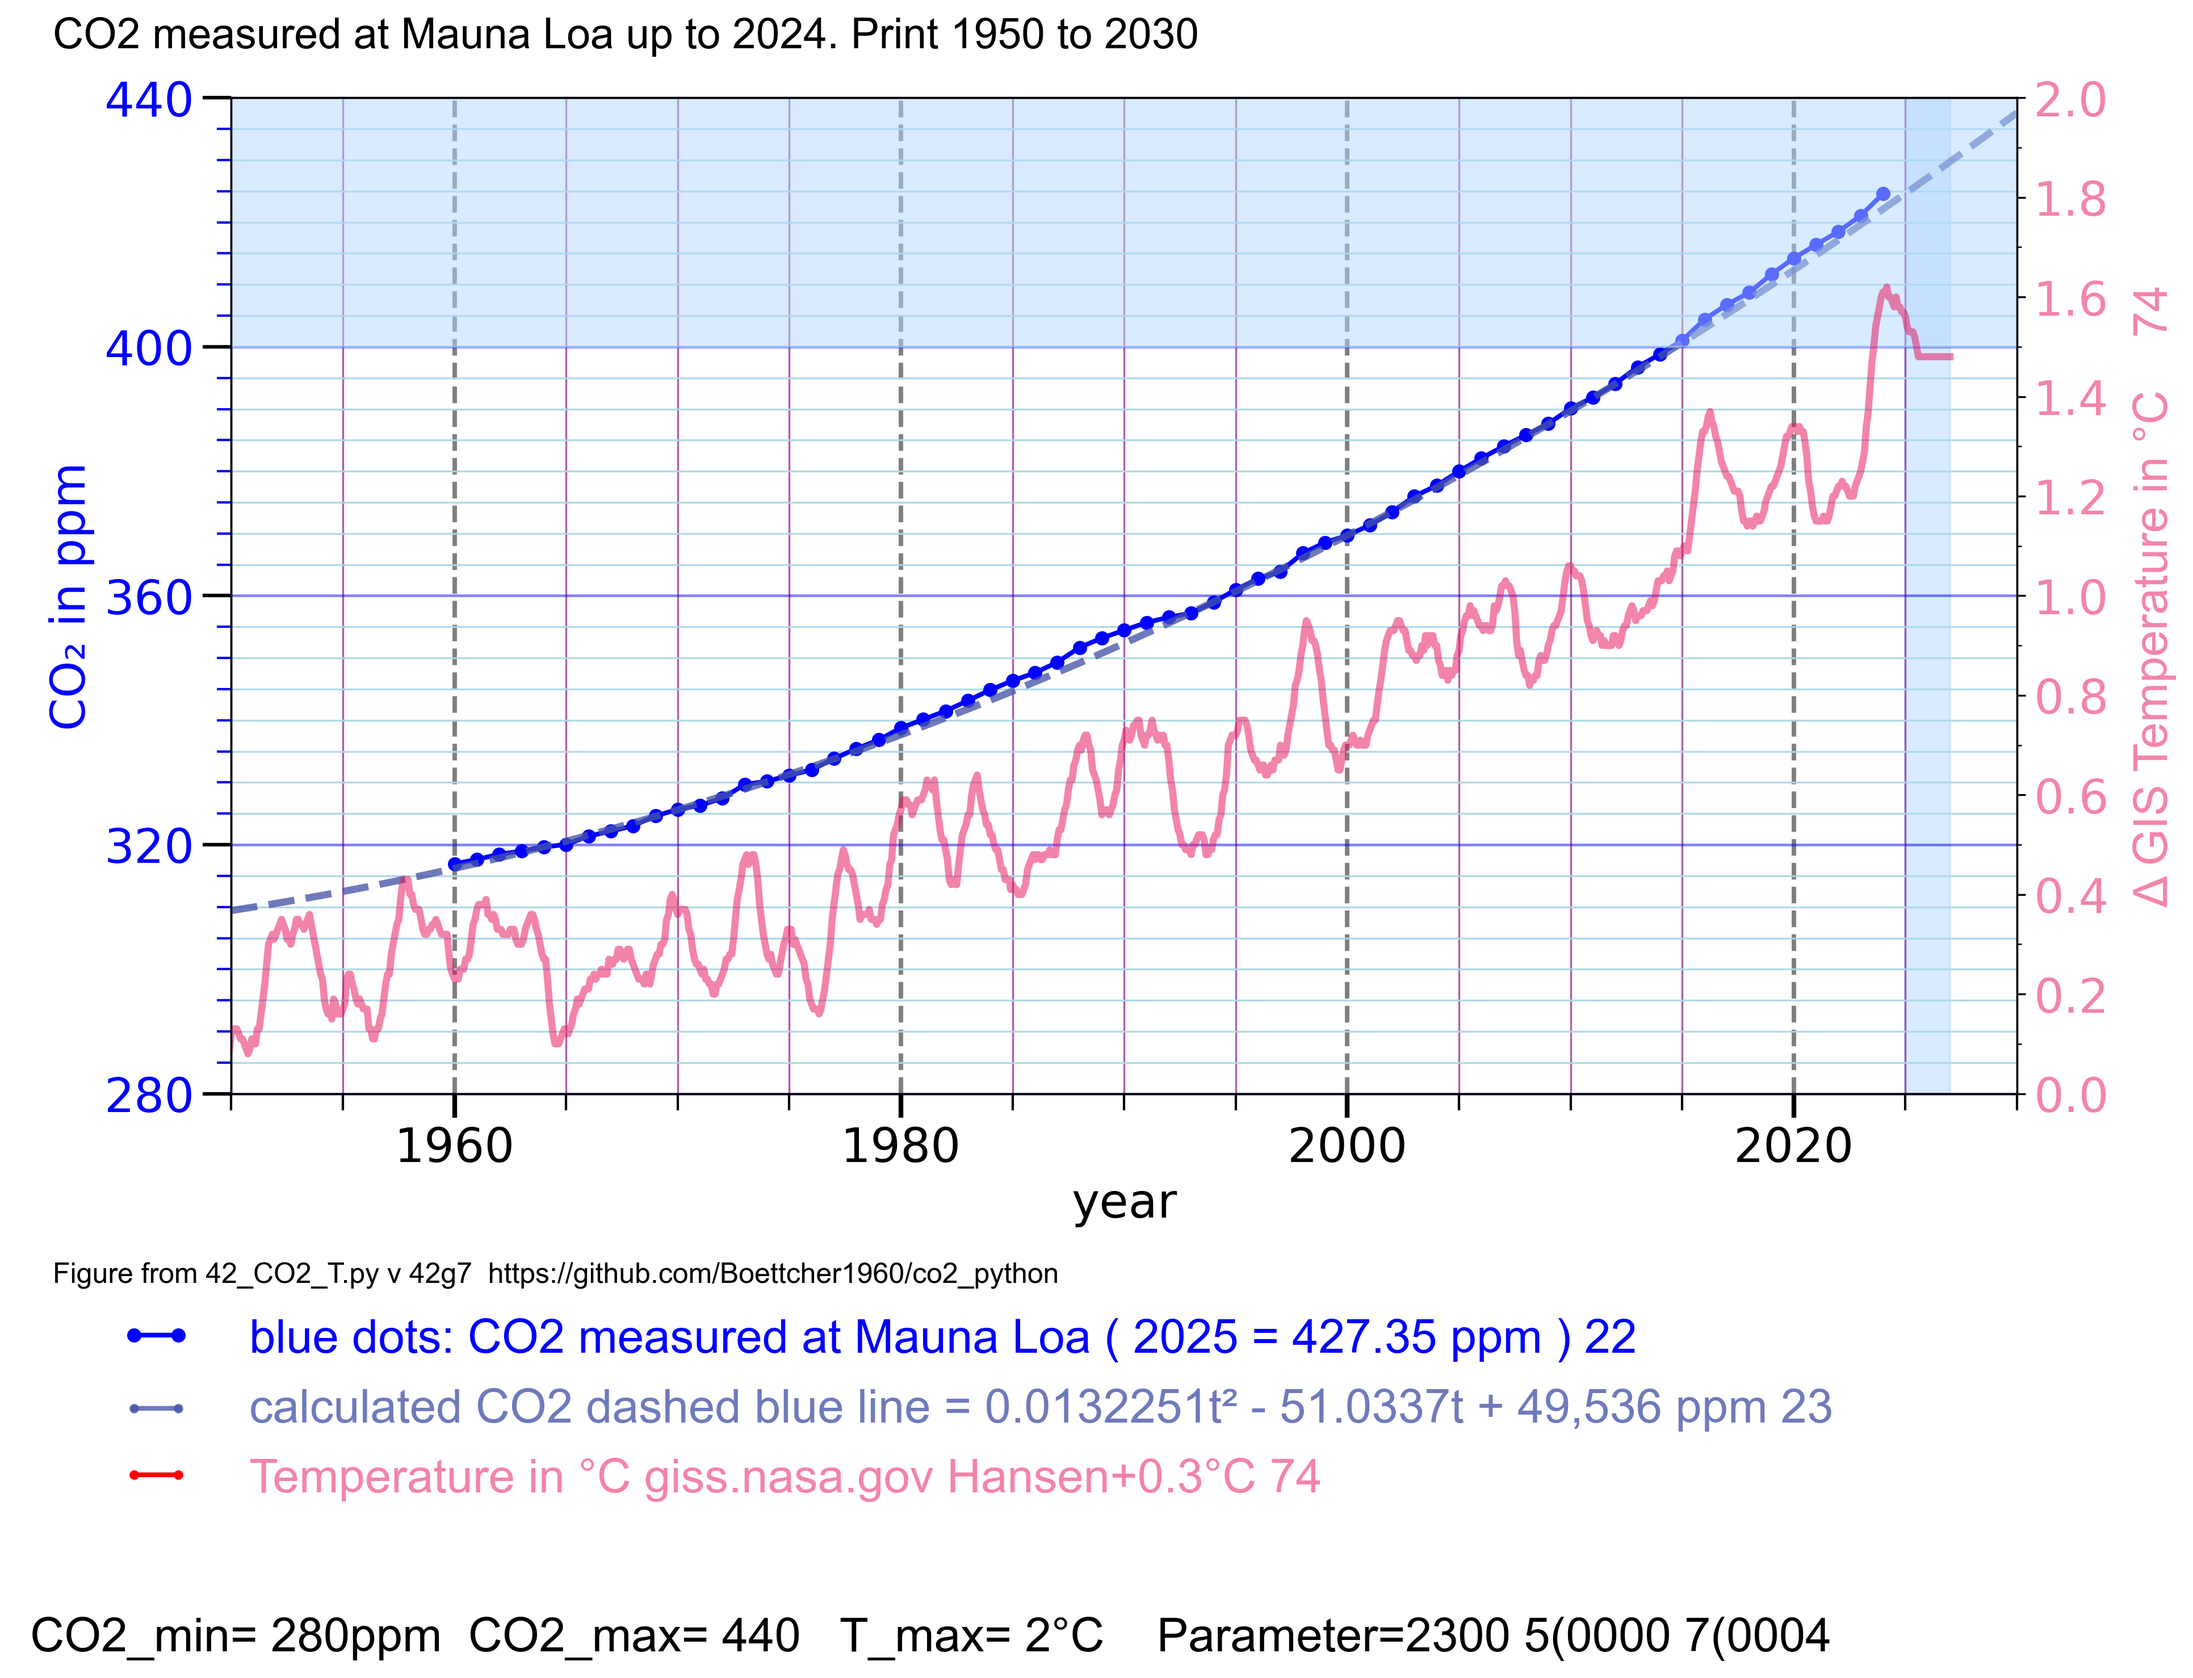
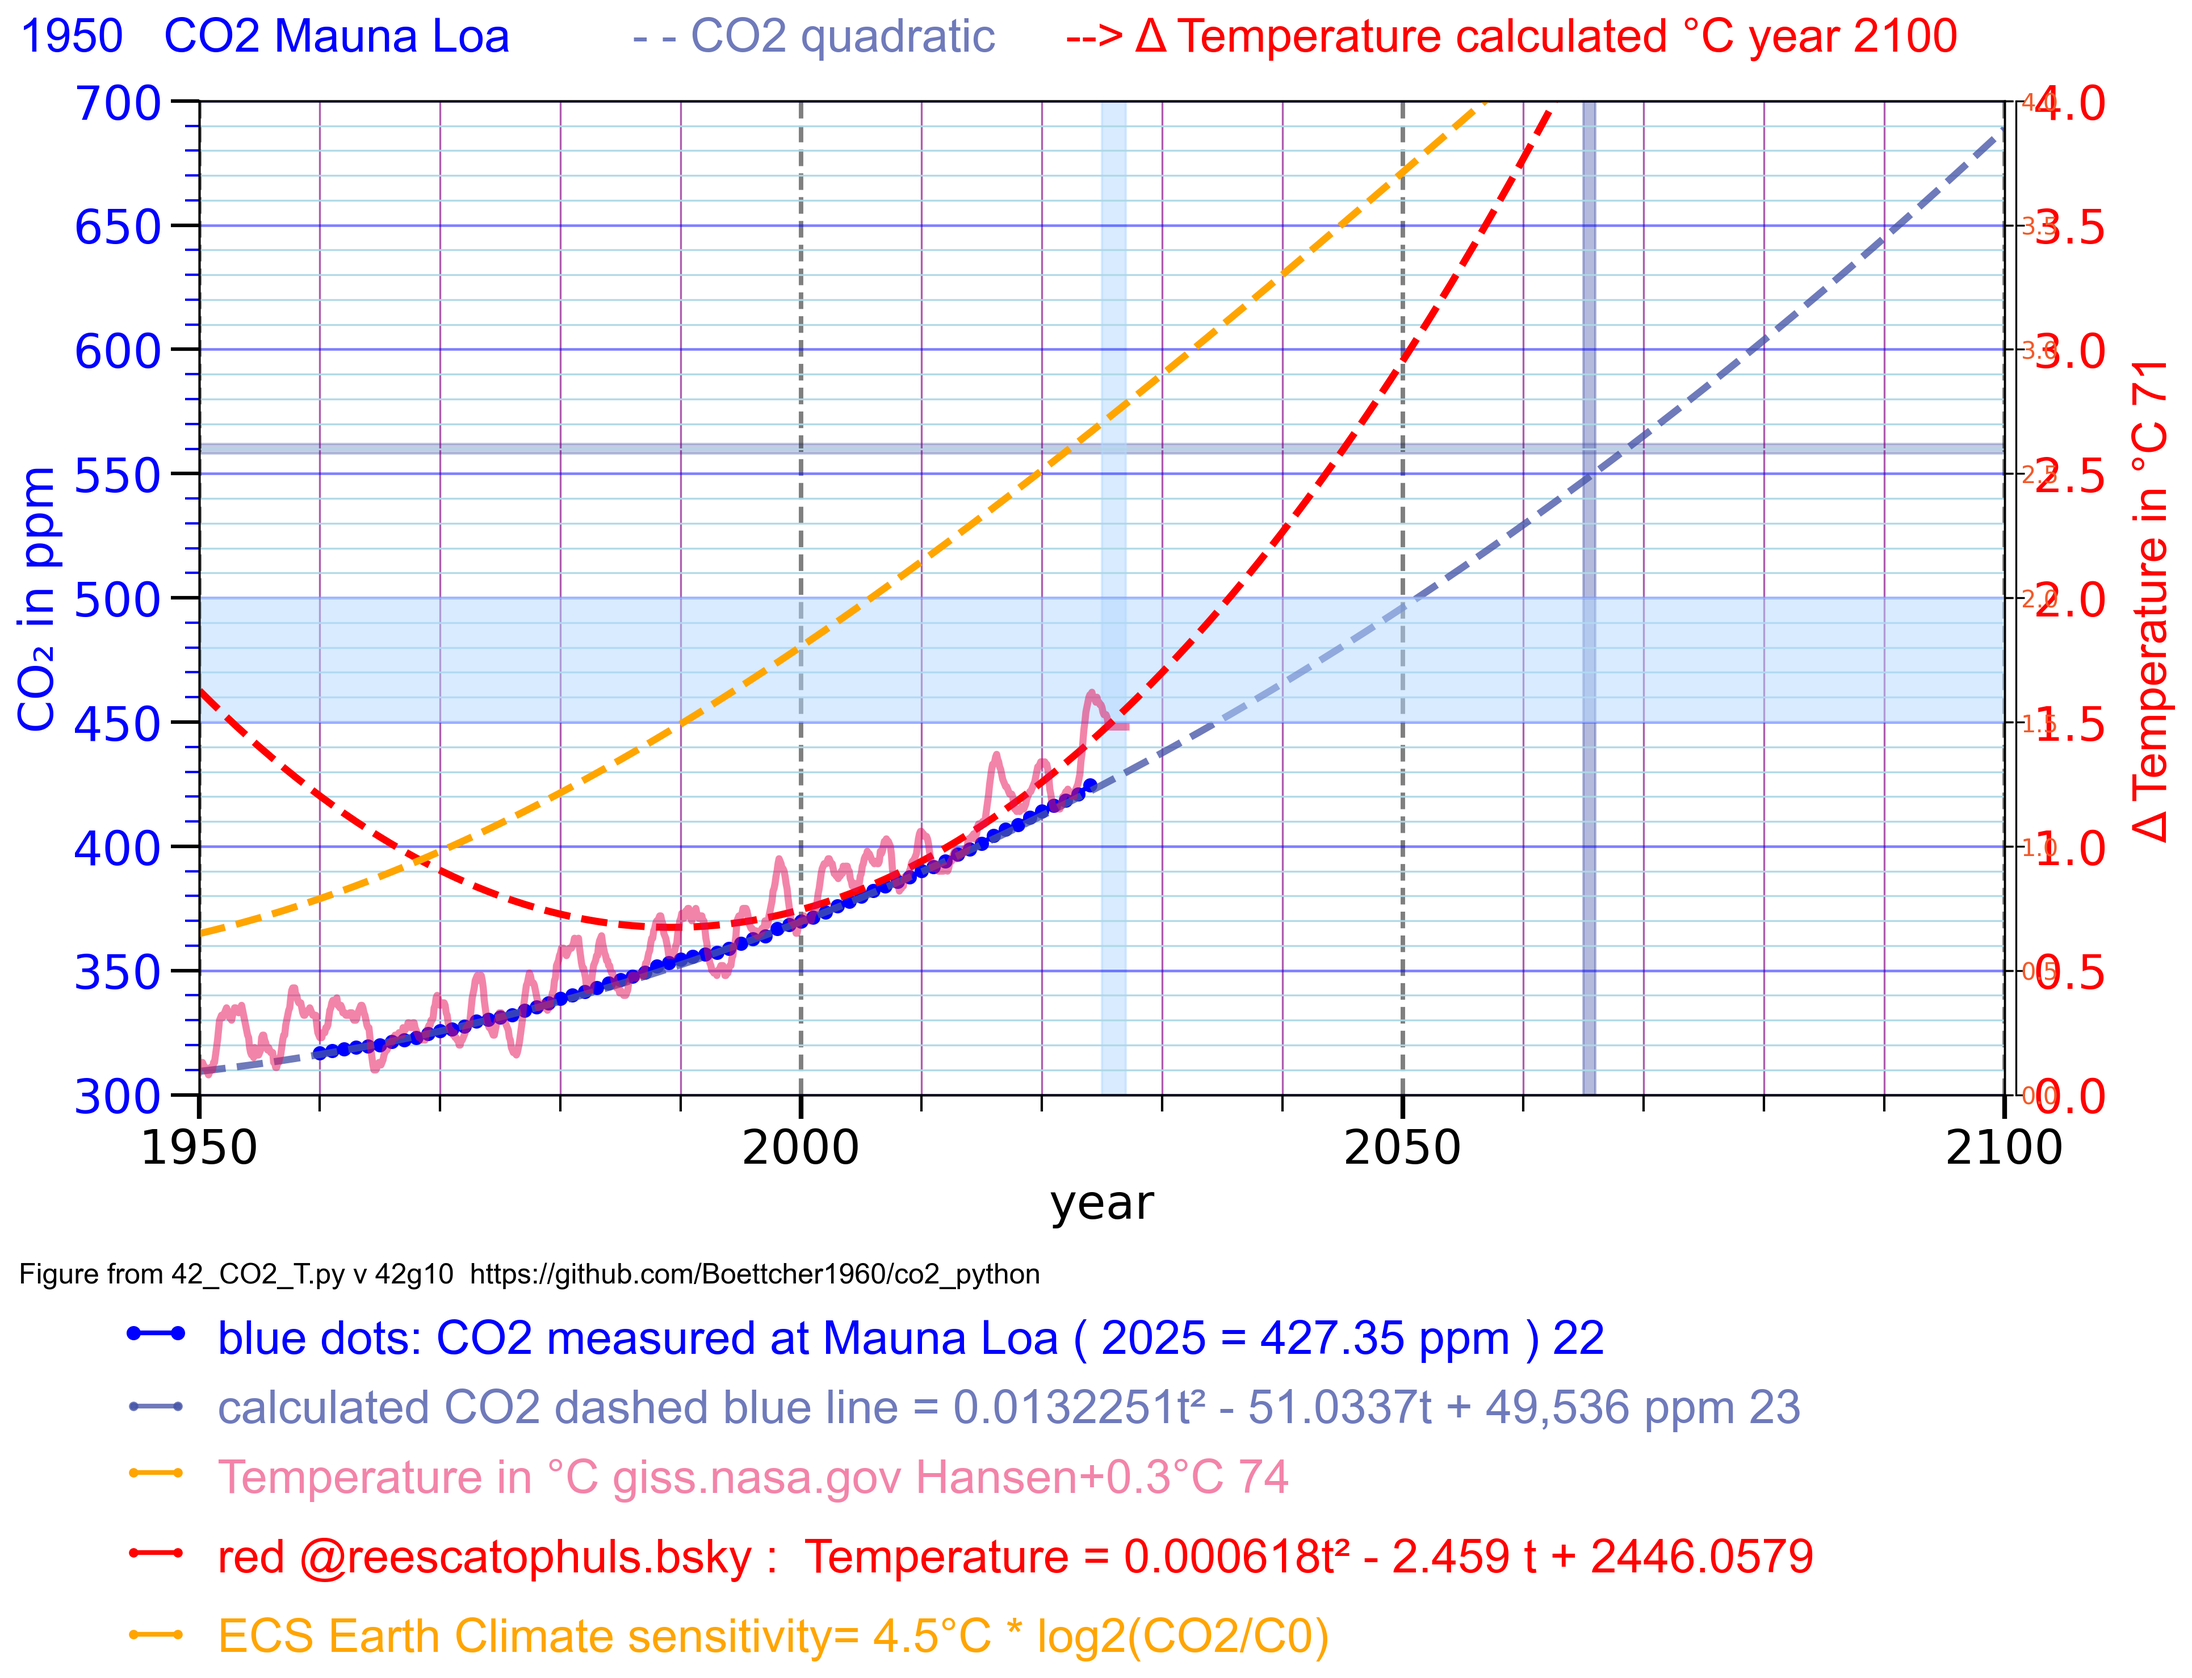
v = "42g10" #  left y axis is T

diff --git a/42_CO2_T.py b/42_CO2_T.py
@@ -1,5 +1,5 @@
 # 42_CO2_T.py 
-v = "42g7" #  left y axis is T
+v = "42g10" #  left y axis is T
 # Thomas Boettcher
 # part 1 configure 
 # part 2.2 plot CO2 Mauna Loa
@@ -60,9 +60,9 @@ plot53_CO2_orange2025 = 0 # 3, 4, 0 orange Glen , 1 = 0.013t² - 51t + 49,536 in
 plot54_Glen_delta_on = 0 #  4, 0 print row 4 # green Glen diff print in line 4
 plot55_population_on = 0 # 4, 5 row 5 # 0=no print , 1 = population in green
 # no part 6
-plot71_temperature = 0 # 4,5, 0 quadratic T
+plot71_temperature = 5 # 4,5, 0 quadratic T
 plot72_AESS_T = 0      # 4,5,0 apparent Earth system sensitivity (AESS=7.7°C)
-plot73_ECS_T  = 0       # 6,5 #  Earth Climate sensitivity (ECS=4.5°C)
+plot73_ECS_T  = 6       # 6,5 #  Earth Climate sensitivity (ECS=4.5°C)
 plot74_GIS_T  = 4 #
 c74 = "#E8125984" # plot73 color
 
@@ -80,15 +80,15 @@ else:
 C280=280 # CO2 concentration 1750 275 ppm
 
 # 1.3.1 scale the left Y axis
-y_min = 280 # 300 # min value 280
-y_max = 440 # 1300 # min value 440 70
+y_min = 300 # 300 # min value 280
+y_max = 700 # 1300 # min value 440 70
 
 # 1.3.2 scale the right Y axis
 y_Tmin = 0 # min value °C
-y_Tmax = 2 # 4 # max value C
+y_Tmax = 4 # 4 # max value C
 
 x_anf = 1950 # 1960 2000 -33000
-x_end = 2030 # 2200 2026 
+x_end = 2100 # 2200 2026 
 
 # 1.4.5 scale the text rows below the plot field
 tr1x = -0.09 # text row 1 x value -.3...1 -0.12
